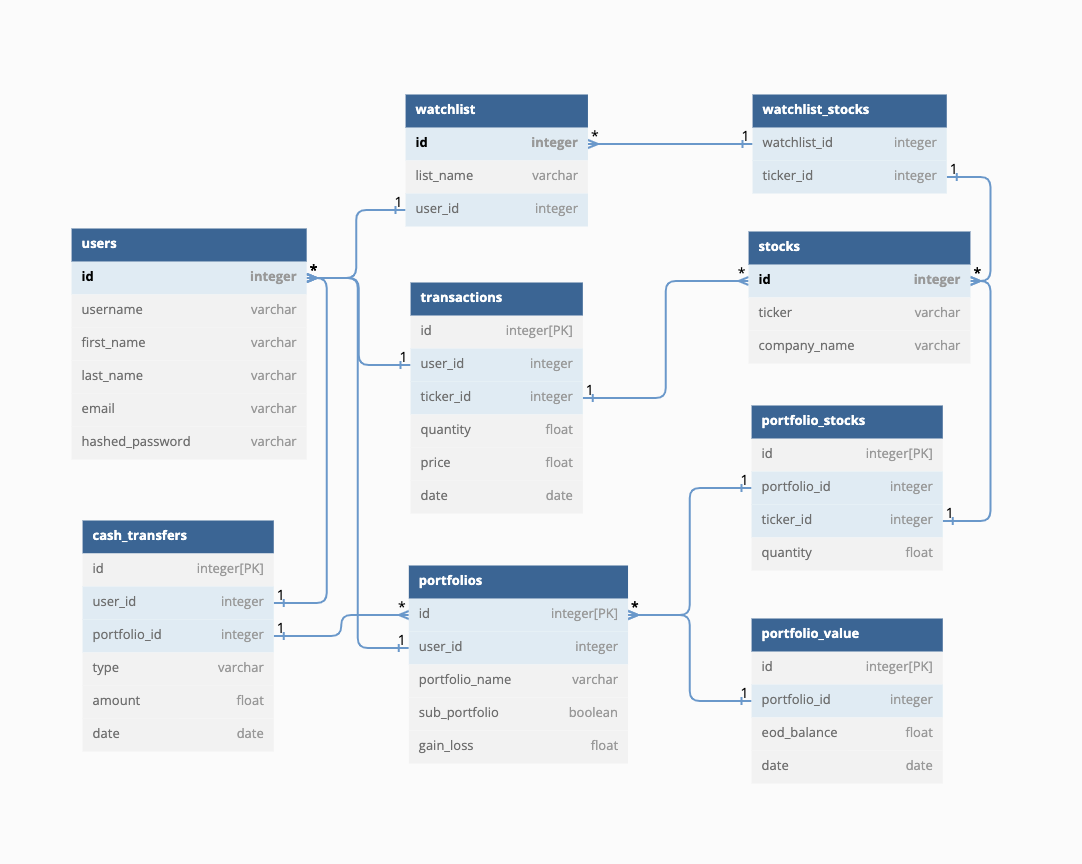
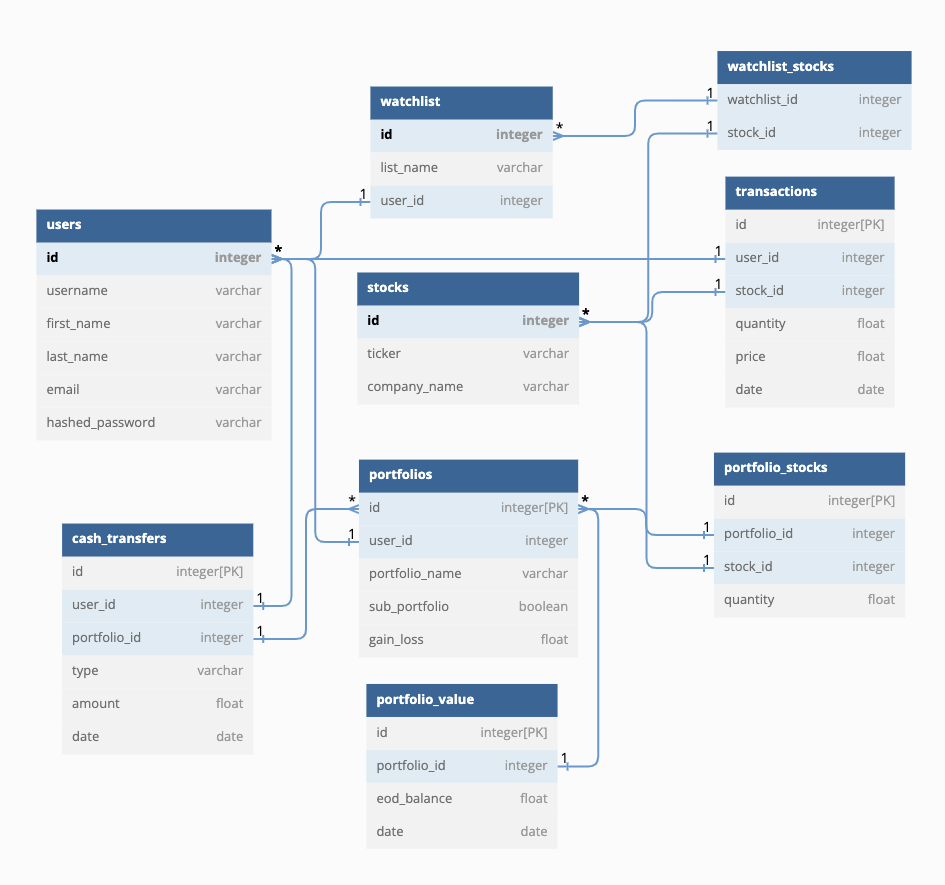
updated db schema from ticker_id to stock_id, added models for watchlist, stock, user

diff --git a/app/models/watchlist.py b/app/models/watchlist.py
@@ -1,0 +1,21 @@
+from .db import db, environment, SCHEMA, add_prefix_for_prod
+
+class Watchlist(db.Model):
+    __tablename__ = 'watchlists'
+
+    if environment == "production":
+        __table_args__ = {'schema': SCHEMA}
+
+    id = db.Column(db.Integer, primary_key=True)
+    list_name = db.Column(db.String(100), nullable=False)
+    user_id = db.Column(db.Integer, db.ForeignKey("users.id"), nullable=False)
+
+    user = db.relationship("User", back_populates="watchlists")
+
+    def to_dict(self):
+        return {
+            "id": self.id,
+            "list_name": self.list_name,
+            "user_id": self.user_id,
+            "user": self.user.to_dict()
+        }

diff --git a/app/models/transaction.py b/app/models/transaction.py
@@ -1,0 +1,15 @@
+from .db import db, environment, SCHEMA, add_prefix_for_prod
+from datetime import datetime
+
+class Transaction(db.Model):
+    __tablename__ = "transactions"
+
+    if environment == "production":
+        __table_args__ = {'schema': SCHEMA}
+
+    id = db.Column(db.Integer, primary_key=True)
+    user_id = db.Column(db.Integer, db.ForeignKey("users.id"), nullable=False)
+    stock_id = db.Column(db.Integer, db.ForeignKey("users.id"), nullable=False)
+    quantity = db.Column(db.Integer, nullable=False)
+    price = db.Column(db.Float, nullable=False)
+    date = db.Column(db.datetime, nullable=False)

diff --git a/app/models/user.py b/app/models/user.py
@@ -16,6 +16,8 @@ class User(db.Model, UserMixin):
     email = db.Column(db.String(255), nullable=False, unique=True)
     hashed_password = db.Column(db.String(255), nullable=False)
 
+    watchlists = db.relationship("Watchlist", back_populates="user")
+
     @property
     def password(self):
         return self.hashed_password
@@ -31,5 +33,6 @@ class User(db.Model, UserMixin):
         return {
             'id': self.id,
             'username': self.username,
-            'email': self.email
+            'email': self.email,
+            'watchlists': self.watchlists.to_dict()
         }

diff --git a/app/models/stock.py b/app/models/stock.py
@@ -1,0 +1,18 @@
+from .db import db, environment, SCHEMA, add_prefix_for_prod
+
+class Stock(db.Model):
+    __tablename__ = 'stocks'
+
+    if environment == "production":
+        __table_args__ = {'schema': SCHEMA}
+
+    id = db.Column(db.Integer, primary_key=True)
+    ticker = db.Column(db.String(40), nullable=False, unique=True)
+    company_name = db.Column(db.String(255), nullable=False)
+
+    def to_dict(self):
+        return {
+            "id": self.id,
+            "ticker": self.ticker,
+            "company_name": self.company_name
+        }

diff --git a/app/models/__init__.py b/app/models/__init__.py
@@ -1,3 +1,5 @@
 from .db import db
 from .user import User
+from .watchlist import Watchlist
+from .stock import Stock
 from .db import environment, SCHEMA
